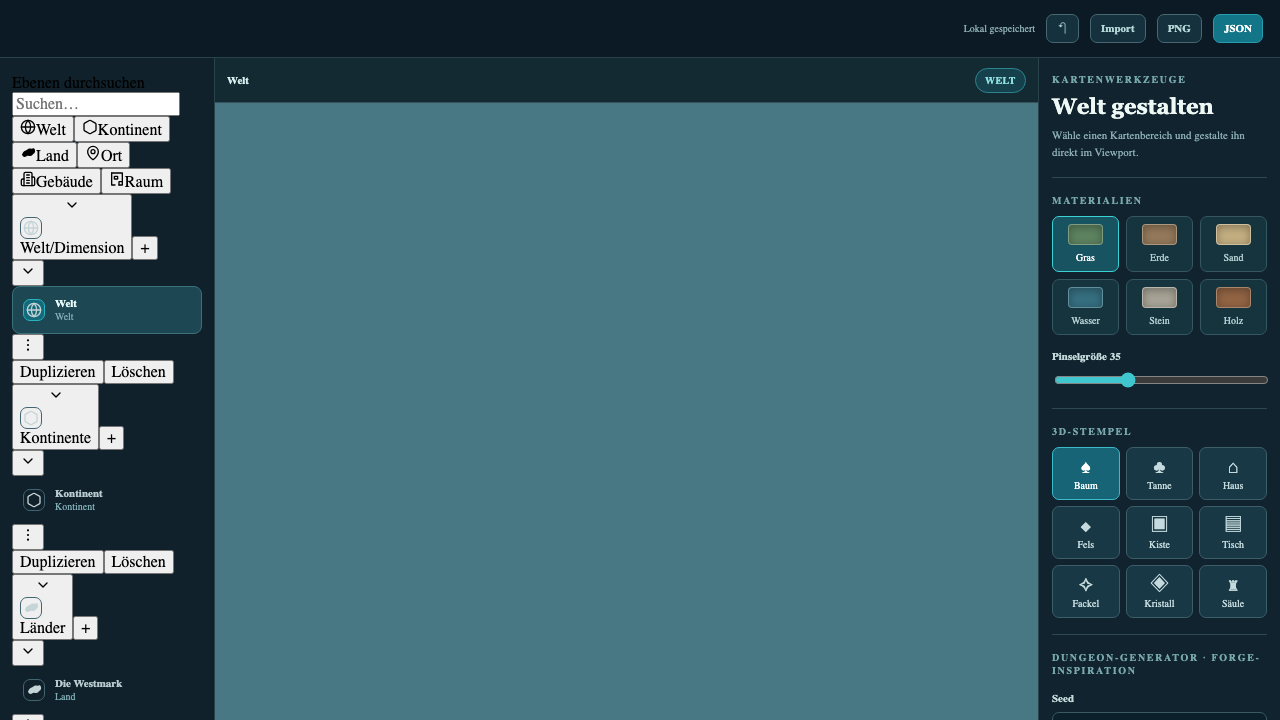
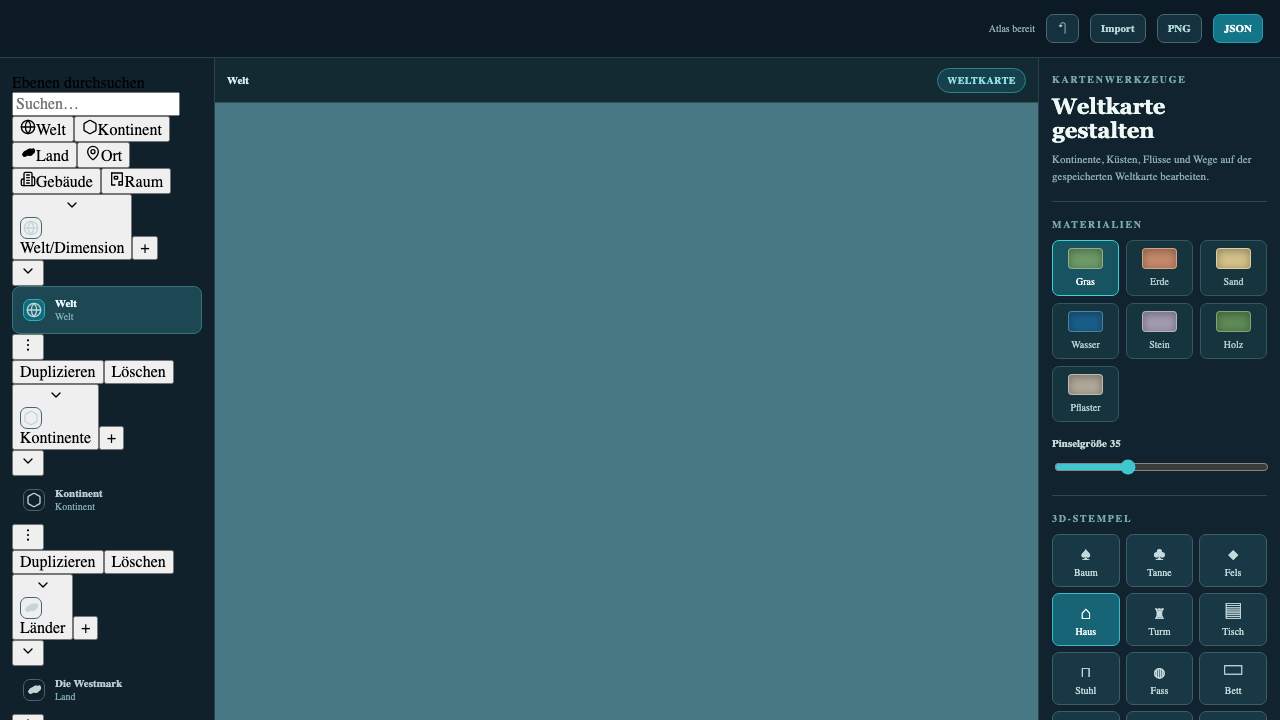
fix(qa): ATL2-R01 PoC shares fixture.json; sync ADR metrics (Codex P1/P2)

Changed region(s): [[0.8125, 0.1222, 1.0, 1.0], [0.75, 0.0306, 0.8125, 0.0611], [0.7188, 0.0917, 0.7812, 0.1222]]

diff --git a/.qa/evidence/atl2-r01-renderer-poc/variant-custom-webgl.html b/.qa/evidence/atl2-r01-renderer-poc/variant-custom-webgl.html
@@ -22,7 +22,35 @@
       import { mountAtlasPrototype3d } from '/src/app/world/atlas/unified/prototype3d/atlas-prototype-runtime.mjs';
 
       const host = document.getElementById('host');
+      const fixture = await fetch('./fixture.json').then((r) => r.json());
+      const props = (fixture.objects || []).map((o) => ({
+        id: String(o.id),
+        level: 'world',
+        // Product controlled map uses doc coords ~0…1000; center fixture around 500.
+        x: 500 + Number(o.x || 0),
+        z: 500 + Number(o.z || 0),
+        type: o.type === 'baum' ? 'baum' : o.type === 'stein' ? 'stein' : 'haus',
+        size: Math.max(0.5, Number(o.size || 4) / 8),
+        rotation: 0,
+      }));
+
       const api = mountAtlasPrototype3d(host, {
+        controlled: true,
+        seedState: {
+          props,
+          strokes: [],
+          walls: [],
+          rooms: [],
+          doors: [],
+          layers: {
+            world: true,
+            region: true,
+            city: true,
+            dungeon: true,
+            stamps: true,
+            grid: false,
+          },
+        },
         graphicsPreset: {
           id: 'balanced',
           maxPixelRatio: 1.5,
@@ -56,7 +84,12 @@
           : null;
         return {
           variant: 'custom-webgl-product-runtime',
-          logicalOk: Boolean(api) && host.querySelector('canvas') != null,
+          logicalOk:
+            Boolean(api) &&
+            host.querySelector('canvas') != null &&
+            props.length === 8 &&
+            fixture.objects.length === 8,
+          fixtureObjectCount: props.length,
           frame: {
             samples: samples.length,
             p50Ms: +percentile(sorted, 50).toFixed(3),
@@ -65,7 +98,8 @@
           },
           memory: mem,
           hasSoftwareFallbackPath: true,
-          notes: 'mountAtlasPrototype3d product module (AtlasGL/AtlasLite3D)',
+          notes:
+            'controlled mountAtlasPrototype3d with identical fixture.json object set (AtlasGL/AtlasLite3D)',
         };
       };
 

diff --git a/.qa/evidence/atl2-r01-renderer-poc/variant-three-inventory.html b/.qa/evidence/atl2-r01-renderer-poc/variant-three-inventory.html
@@ -100,6 +100,7 @@
         return {
           variant: 'three-inventory-prototype',
           logicalOk: fixture.objects.length === 8 && host.querySelector('canvas') != null,
+          fixtureObjectCount: fixture.objects.length,
           frame: {
             samples: samples.length,
             p50Ms: +percentile(sorted, 50).toFixed(3),
@@ -108,7 +109,8 @@
           },
           memory: mem,
           hasSoftwareFallbackPath: false,
-          notes: 'Inventory-style Three scene (SpatialViewport-class geometry); not product chrome',
+          notes:
+            'Inventory-style Three scene from same fixture.json (SpatialViewport-class geometry); not product chrome',
         };
       };
 

diff --git a/.qa/design/atl2-r01-renderer-decision.md b/.qa/design/atl2-r01-renderer-decision.md
@@ -23,11 +23,13 @@ Protocol: identical viewport 1280×720, headless Chromium, same fixture object c
 | Metric | Custom-WebGL (product runtime mount) | Three inventory-style prototype |
 | --- | --- | --- |
 | Logical fixture load | PASS | PASS |
-| Frame p50 (ms) | 16.7 | 16.7 |
-| Frame p95 (ms) | 42.6 | 20.4 |
+| Frame p50 (ms) | 16.9 | 16.7 |
+| Frame p95 (ms) | 41.8 | 18.5 |
 | JS heap (MB) | 9.54 | 9.54 |
 | Software fallback | AtlasLite3D available | **missing** |
 | Heightfield / diorama / product camera presets | present in product path | **missing** in SpatialViewport inventory |
+
+Authoritative numbers: `.qa/evidence/atl2-r01-renderer-poc/results.json` (and `.qa/runs/atl2-r01-renderer-decision.*`).
 
 p95 favors the thin Three inventory scene, but that scene lacks product capabilities
 (lite fallback, heightfield, diorama, camera presets, tool/nav chrome). Equal p50 and

diff --git a/.qa/runs/atl2-r01-renderer-decision.md b/.qa/runs/atl2-r01-renderer-decision.md
@@ -1,7 +1,7 @@
 # ATL2-R01 Renderer Hybrid Decision
 
 - Issue: #1266
-- HEAD: `04f49230ba7e1aa7076554f6fb9737d3d02334df`
+- HEAD: `8cb99e7a153080a784284b2ecd8538ce1151ebd9`
 - Verdict: **NO-GO**
 - Productive 3D owner: `custom-webgl-prototype-runtime`
 - Date: 2026-11-13
@@ -18,8 +18,8 @@
 
 | Metric | Custom-WebGL | Three inventory |
 |----------|-------------|-----------------|
-| frame p50 ms | 16.7 | 16.7 |
-| frame p95 ms | 48 | 17.1 |
+| frame p50 ms | 16.9 | 16.7 |
+| frame p95 ms | 41.8 | 18.5 |
 | JS heap MB | 9.54 | 9.54 |
 
 ## Decision
